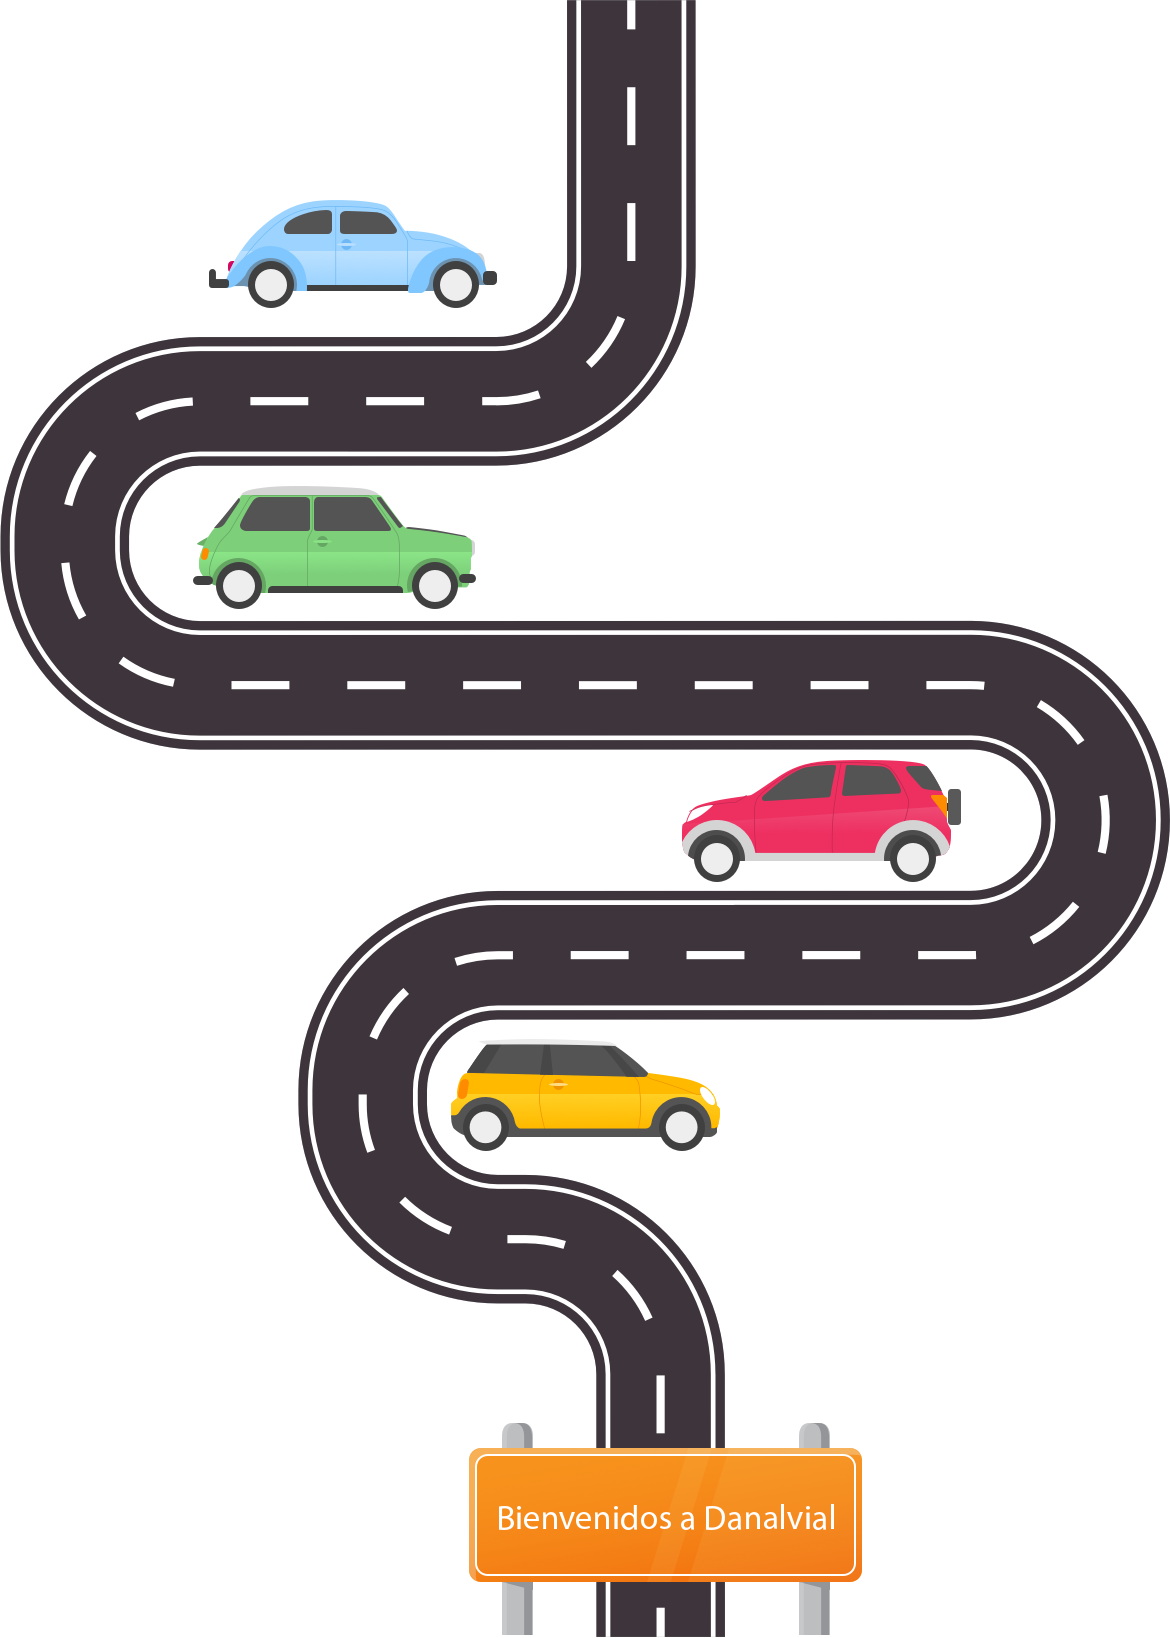
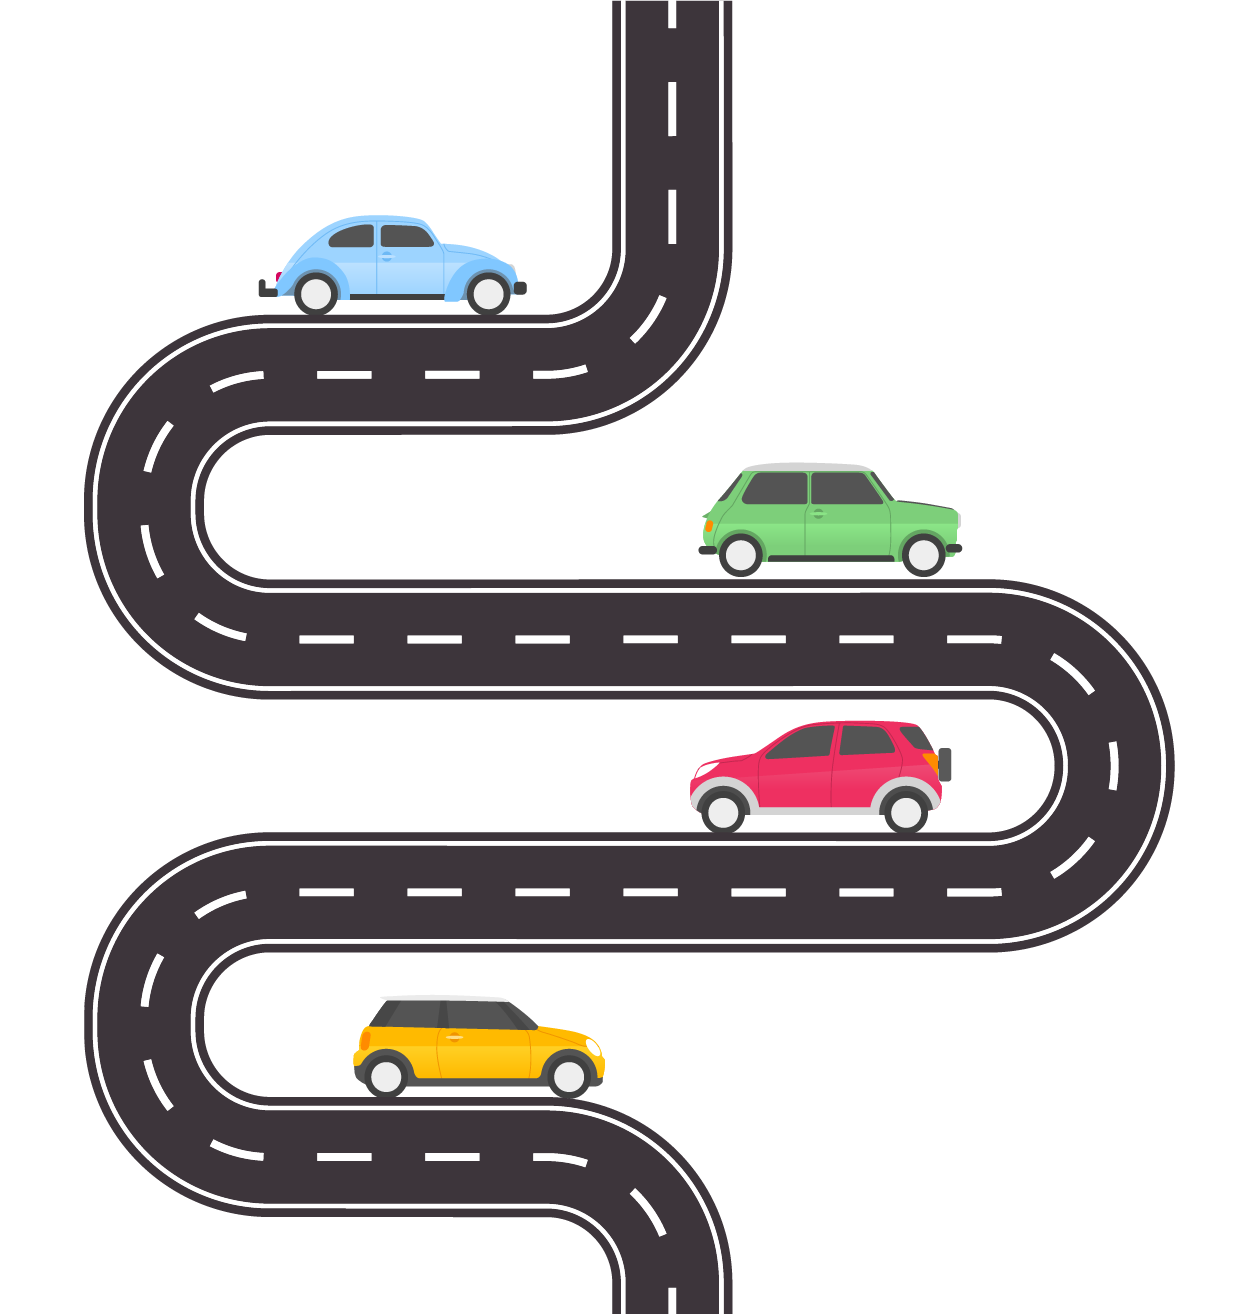
about_us background

diff --git a/webroot/scss/main.scss b/webroot/scss/main.scss
@@ -397,10 +397,10 @@ nav {
 
     #history {
         background-image: url('/img/road-us.png');
-        background-repeat: no-repeat;
+        background-repeat: repeat-y;
         background-position: center bottom;
         background-attachment: fixed;
-        background-size: contain; //cover;
+        background-size: 90% auto;
 
         .history_box {
             border: 1px solid black; //BORRAR
@@ -422,6 +422,14 @@ nav {
             width: 80%;
             margin-left: 10%;
             margin-right: 10%;
+        }
+
+        #welcome-banner {
+            background-image: url('/img/road-us_2.png');
+            background-repeat: no-repeat;
+            height: 100px;
+            background-position: bottom;
+            background-size: auto 100%;
         }
     }
 
@@ -770,6 +778,12 @@ footer {
         }
     }
 
+    #us {
+        #history {
+            background-size: 80% auto;
+        }
+    }
+
     #courses-page {
         #step-by-step-section {
             width: 85%;
@@ -877,6 +891,8 @@ footer {
 
     #us {
         #history {
+            background-size: 70% auto;
+
             .history_box:nth-child(2n-1) {
                 width: 40%;
                 margin-right: 60%;

diff --git a/templates/Us/index.php b/templates/Us/index.php
@@ -11,6 +11,7 @@
                </div>
                <?php endforeach; ?>
           </div>
+          <div id='welcome-banner'></div>
      </section>
 
      <section id="branches">
